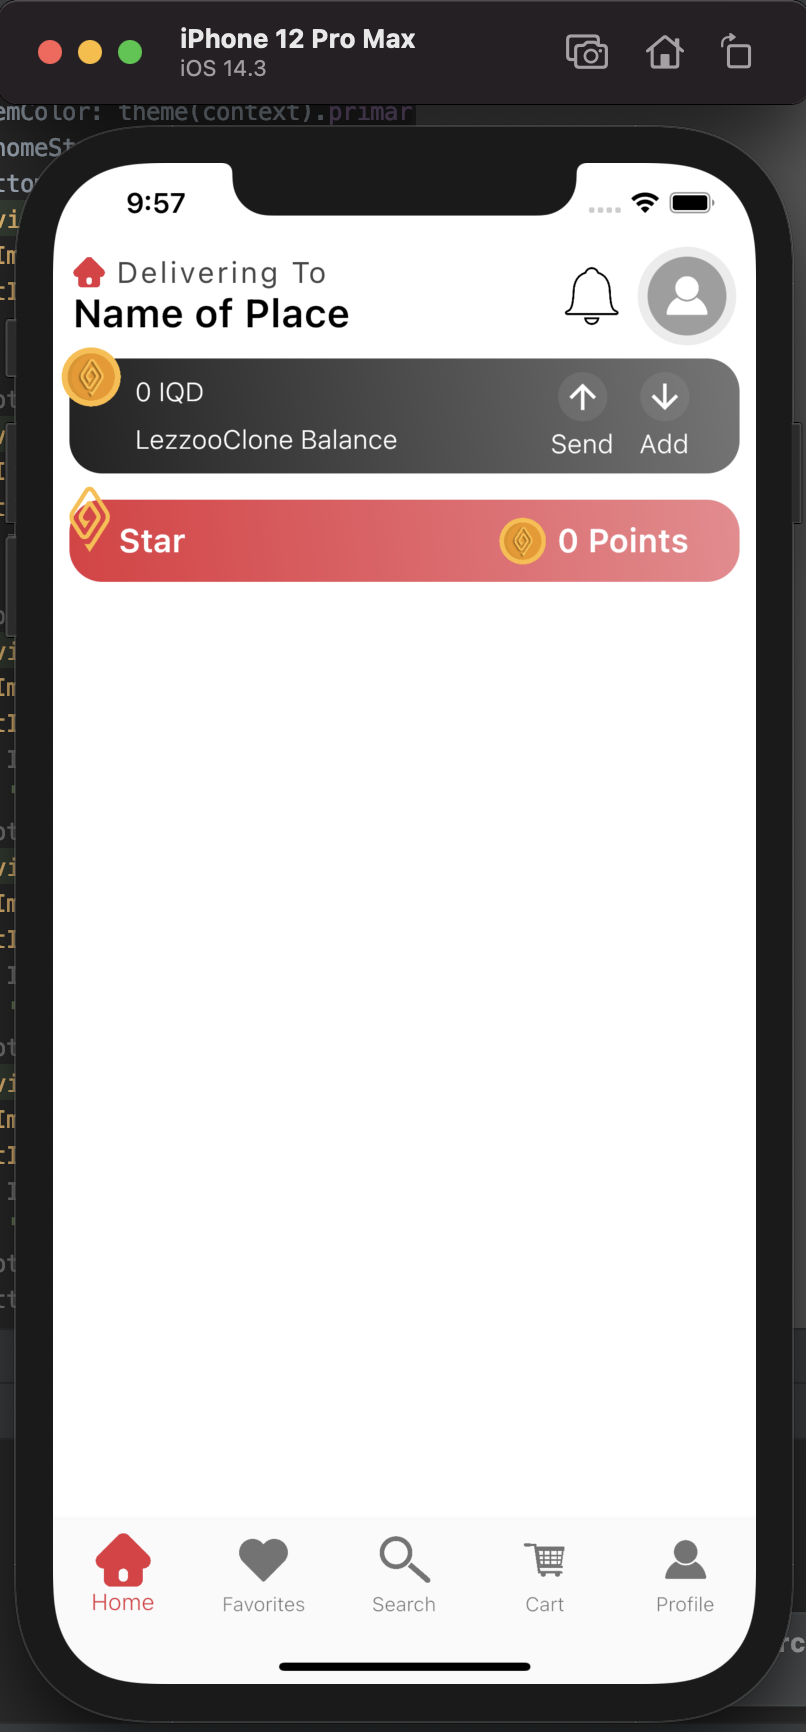
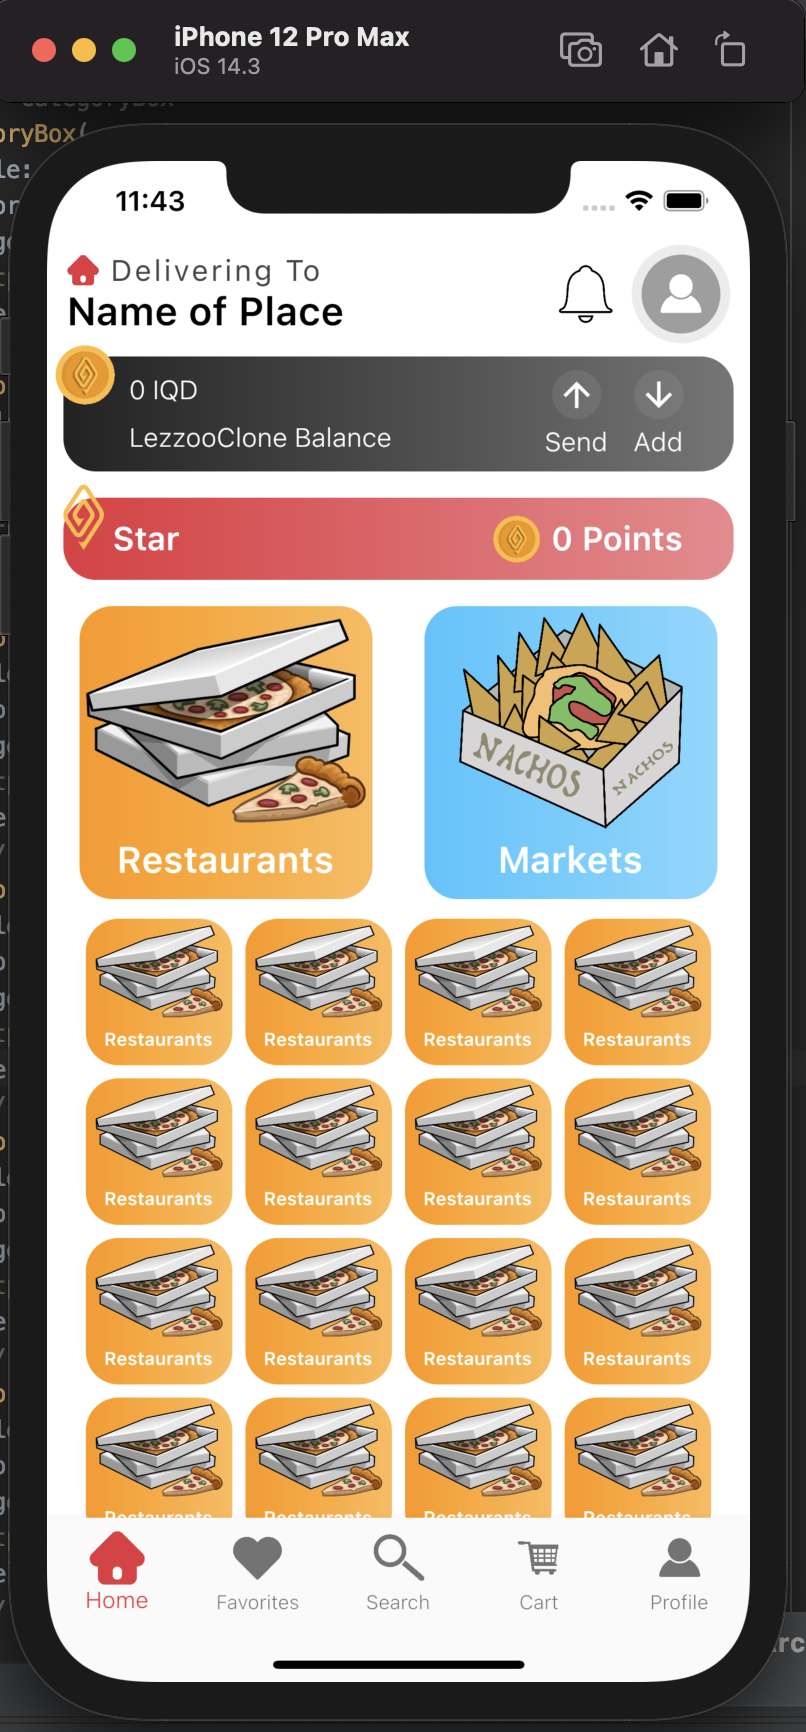
update home UI, add categories grid view

diff --git a/lib/UI/Screens/HomeScreen/Tabs/HomeTab.dart b/lib/UI/Screens/HomeScreen/Tabs/HomeTab.dart
@@ -2,6 +2,7 @@ import 'package:flutter/cupertino.dart';
 import 'package:flutter/material.dart';
 import 'package:lezzoo_clone_flutter/Constants.dart';
 import 'package:lezzoo_clone_flutter/Helper/ThemeOf.dart';
+import 'package:lezzoo_clone_flutter/UI/Components/CategoryBox.dart';
 import 'package:lezzoo_clone_flutter/UI/Screens/HomeScreen/Components/BalanceHome.dart';
 import 'package:lezzoo_clone_flutter/UI/Screens/HomeScreen/Components/HeaderHome.dart';
 import 'package:lezzoo_clone_flutter/UI/Screens/HomeScreen/Components/StarSectionHome.dart';
@@ -24,6 +25,181 @@ class HomeTab extends StatelessWidget {
               HeaderHome(),
               BalanceHome(),
               StarSectionHome(),
+              SizedBox(
+                height: 8,
+              ),
+              Row(
+                mainAxisAlignment: MainAxisAlignment.spaceAround,
+                children: [
+                  CategoryBox(
+                    title: 'Restaurants',
+                    color: Colors.orange,
+                    imageUrl:
+                        'https://i.dlpng.com/static/png/6367350_preview.png',
+                    size: MediaQuery.of(context).size.width / 2.4,
+                  ),
+                  CategoryBox(
+                    title: 'Markets',
+                    color: Colors.lightBlueAccent,
+                    imageUrl:
+                        'https://www.pngkey.com/png/full/28-282736_clipart-big-image-png-transparent-background-nachos-clipart.png',
+                    size: MediaQuery.of(context).size.width / 2.4,
+                  ),
+                ],
+              ),
+
+            Padding(
+              padding: const EdgeInsets.all(12.0),
+              child: Wrap(
+                crossAxisAlignment: WrapCrossAlignment.center,
+                alignment: WrapAlignment.center,
+                spacing: 8,
+                runSpacing: 8,
+                children: [
+                  CategoryBox(
+                    title: 'Restaurants',
+                    color: Colors.orange,
+                    imageUrl:
+                    'https://i.dlpng.com/static/png/6367350_preview.png',
+                    size: MediaQuery.of(context).size.width / 4.8,
+                  ),
+                  CategoryBox(
+                    title: 'Restaurants',
+                    color: Colors.orange,
+                    imageUrl:
+                    'https://i.dlpng.com/static/png/6367350_preview.png',
+                    size: MediaQuery.of(context).size.width /  4.8,
+                  ),
+                  CategoryBox(
+                    title: 'Restaurants',
+                    color: Colors.orange,
+                    imageUrl:
+                    'https://i.dlpng.com/static/png/6367350_preview.png',
+                    size: MediaQuery.of(context).size.width /  4.8,
+                  ),
+                  CategoryBox(
+                    title: 'Restaurants',
+                    color: Colors.orange,
+                    imageUrl:
+                    'https://i.dlpng.com/static/png/6367350_preview.png',
+                    size: MediaQuery.of(context).size.width /  4.8,
+                  ),
+                  CategoryBox(
+                    title: 'Restaurants',
+                    color: Colors.orange,
+                    imageUrl:
+                    'https://i.dlpng.com/static/png/6367350_preview.png',
+                    size: MediaQuery.of(context).size.width / 4.8,
+                  ),
+                  CategoryBox(
+                    title: 'Restaurants',
+                    color: Colors.orange,
+                    imageUrl:
+                    'https://i.dlpng.com/static/png/6367350_preview.png',
+                    size: MediaQuery.of(context).size.width /  4.8,
+                  ),
+                  CategoryBox(
+                    title: 'Restaurants',
+                    color: Colors.orange,
+                    imageUrl:
+                    'https://i.dlpng.com/static/png/6367350_preview.png',
+                    size: MediaQuery.of(context).size.width /  4.8,
+                  ),
+                  CategoryBox(
+                    title: 'Restaurants',
+                    color: Colors.orange,
+                    imageUrl:
+                    'https://i.dlpng.com/static/png/6367350_preview.png',
+                    size: MediaQuery.of(context).size.width /  4.8,
+                  ),
+                  CategoryBox(
+                    title: 'Restaurants',
+                    color: Colors.orange,
+                    imageUrl:
+                    'https://i.dlpng.com/static/png/6367350_preview.png',
+                    size: MediaQuery.of(context).size.width / 4.8,
+                  ),
+                  CategoryBox(
+                    title: 'Restaurants',
+                    color: Colors.orange,
+                    imageUrl:
+                    'https://i.dlpng.com/static/png/6367350_preview.png',
+                    size: MediaQuery.of(context).size.width /  4.8,
+                  ),
+                  CategoryBox(
+                    title: 'Restaurants',
+                    color: Colors.orange,
+                    imageUrl:
+                    'https://i.dlpng.com/static/png/6367350_preview.png',
+                    size: MediaQuery.of(context).size.width /  4.8,
+                  ),
+                  CategoryBox(
+                    title: 'Restaurants',
+                    color: Colors.orange,
+                    imageUrl:
+                    'https://i.dlpng.com/static/png/6367350_preview.png',
+                    size: MediaQuery.of(context).size.width /  4.8,
+                  ),
+                  CategoryBox(
+                    title: 'Restaurants',
+                    color: Colors.orange,
+                    imageUrl:
+                    'https://i.dlpng.com/static/png/6367350_preview.png',
+                    size: MediaQuery.of(context).size.width / 4.8,
+                  ),
+                  CategoryBox(
+                    title: 'Restaurants',
+                    color: Colors.orange,
+                    imageUrl:
+                    'https://i.dlpng.com/static/png/6367350_preview.png',
+                    size: MediaQuery.of(context).size.width /  4.8,
+                  ),
+                  CategoryBox(
+                    title: 'Restaurants',
+                    color: Colors.orange,
+                    imageUrl:
+                    'https://i.dlpng.com/static/png/6367350_preview.png',
+                    size: MediaQuery.of(context).size.width /  4.8,
+                  ),
+                  CategoryBox(
+                    title: 'Restaurants',
+                    color: Colors.orange,
+                    imageUrl:
+                    'https://i.dlpng.com/static/png/6367350_preview.png',
+                    size: MediaQuery.of(context).size.width /  4.8,
+                  ),
+                  CategoryBox(
+                    title: 'Restaurants',
+                    color: Colors.orange,
+                    imageUrl:
+                    'https://i.dlpng.com/static/png/6367350_preview.png',
+                    size: MediaQuery.of(context).size.width / 4.8,
+                  ),
+                  CategoryBox(
+                    title: 'Restaurants',
+                    color: Colors.orange,
+                    imageUrl:
+                    'https://i.dlpng.com/static/png/6367350_preview.png',
+                    size: MediaQuery.of(context).size.width /  4.8,
+                  ),
+                  CategoryBox(
+                    title: 'Restaurants',
+                    color: Colors.orange,
+                    imageUrl:
+                    'https://i.dlpng.com/static/png/6367350_preview.png',
+                    size: MediaQuery.of(context).size.width /  4.8,
+                  ),
+                  CategoryBox(
+                    title: 'Restaurants',
+                    color: Colors.orange,
+                    imageUrl:
+                    'https://i.dlpng.com/static/png/6367350_preview.png',
+                    size: MediaQuery.of(context).size.width /  4.8,
+                  ),
+                ],
+              ),
+            )
+
             ],
           ),
         ),

diff --git a/lib/UI/Components/CategoryBox.dart b/lib/UI/Components/CategoryBox.dart
@@ -1,0 +1,47 @@
+import 'package:flutter/cupertino.dart';
+import 'package:flutter/material.dart';
+import 'package:lezzoo_clone_flutter/Helper/ThemeOf.dart';
+
+class CategoryBox extends StatelessWidget {
+ final String title;
+ final String imageUrl;
+ final Color color;
+ final double size;
+
+ CategoryBox({required this.title,required this.imageUrl,required this.color,required this.size});
+
+  @override
+  Widget build(BuildContext context) {
+    return Container(
+      padding: EdgeInsets.all(4),
+      decoration: BoxDecoration(
+        borderRadius: BorderRadius.circular(20),
+        gradient: LinearGradient(
+          begin: Alignment.centerRight,
+          end: Alignment.centerLeft,
+          colors: [
+            color.withAlpha(170),
+            color,
+          ],
+        ),
+      ),
+      height:size,
+      width: size,
+      child: Center(
+        child: Column(
+          children: [
+            Expanded(child: Image.network(imageUrl)),
+            Padding(
+              padding: const EdgeInsets.all(6.0),
+              child: Text(title,
+                  style: theme(context)
+                      .textTheme
+                      .headline6!
+                      .copyWith(color: Colors.white, fontSize: size/8)),
+            ),
+          ],
+        ),
+      ),
+    );
+  }
+}

diff --git a/lib/UI/Screens/HomeScreen/Components/StarSectionHome.dart b/lib/UI/Screens/HomeScreen/Components/StarSectionHome.dart
@@ -15,8 +15,8 @@ class StarSectionHome extends StatelessWidget {
           decoration: BoxDecoration(
               borderRadius: BorderRadius.circular(20),
               gradient: LinearGradient(
-                begin: Alignment.topRight,
-                end: Alignment.bottomLeft,
+                begin: Alignment.centerRight,
+                end: Alignment.centerLeft,
                 colors: [
                   theme(context).primaryColor.withAlpha(150),
                   theme(context).primaryColor,

diff --git a/lib/UI/Screens/HomeScreen/Components/BalanceHome.dart b/lib/UI/Screens/HomeScreen/Components/BalanceHome.dart
@@ -15,8 +15,8 @@ class BalanceHome extends StatelessWidget {
           decoration: BoxDecoration(
               borderRadius: BorderRadius.circular(20),
               gradient: LinearGradient(
-                begin: Alignment.topRight,
-                end: Alignment.bottomLeft,
+                begin: Alignment.centerRight,
+                end: Alignment.centerLeft,
                 colors: [
                   Colors.black54,
                   Colors.black87,

diff --git a/lib/Constants.dart b/lib/Constants.dart
@@ -12,5 +12,6 @@ class Constants {
   static String profileIcon = 'assets/images/profileIcon.png';
   static String notificationIcon = 'assets/images/notificationIcon.png';
   static String coinIcon = 'assets/images/coinIcon.png';
+  //dummy
 
 }

diff --git a/README.md b/README.md
@@ -33,9 +33,9 @@ flutter run -v
 Some screenshots of the App with current changes
 
 - Splash Screen
-![alt splash](https://github.com/mahammadbakr/Lezzo-Clone-Flutter/blob/main/assets/screenshots/splash.png?raw=true)
+<img src="https://github.com/mahammadbakr/Lezzo-Clone-Flutter/blob/main/assets/screenshots/splash.png?raw=true" width="200" height="400">
 
 - Home Screen
-![alt home](https://github.com/mahammadbakr/Lezzo-Clone-Flutter/blob/main/assets/screenshots/home.png?raw=true)
+<img src="https://github.com/mahammadbakr/Lezzo-Clone-Flutter/blob/main/assets/screenshots/home.png?raw=true" width="200" height="400">
 
 # Lezzo-Clone-Flutter
